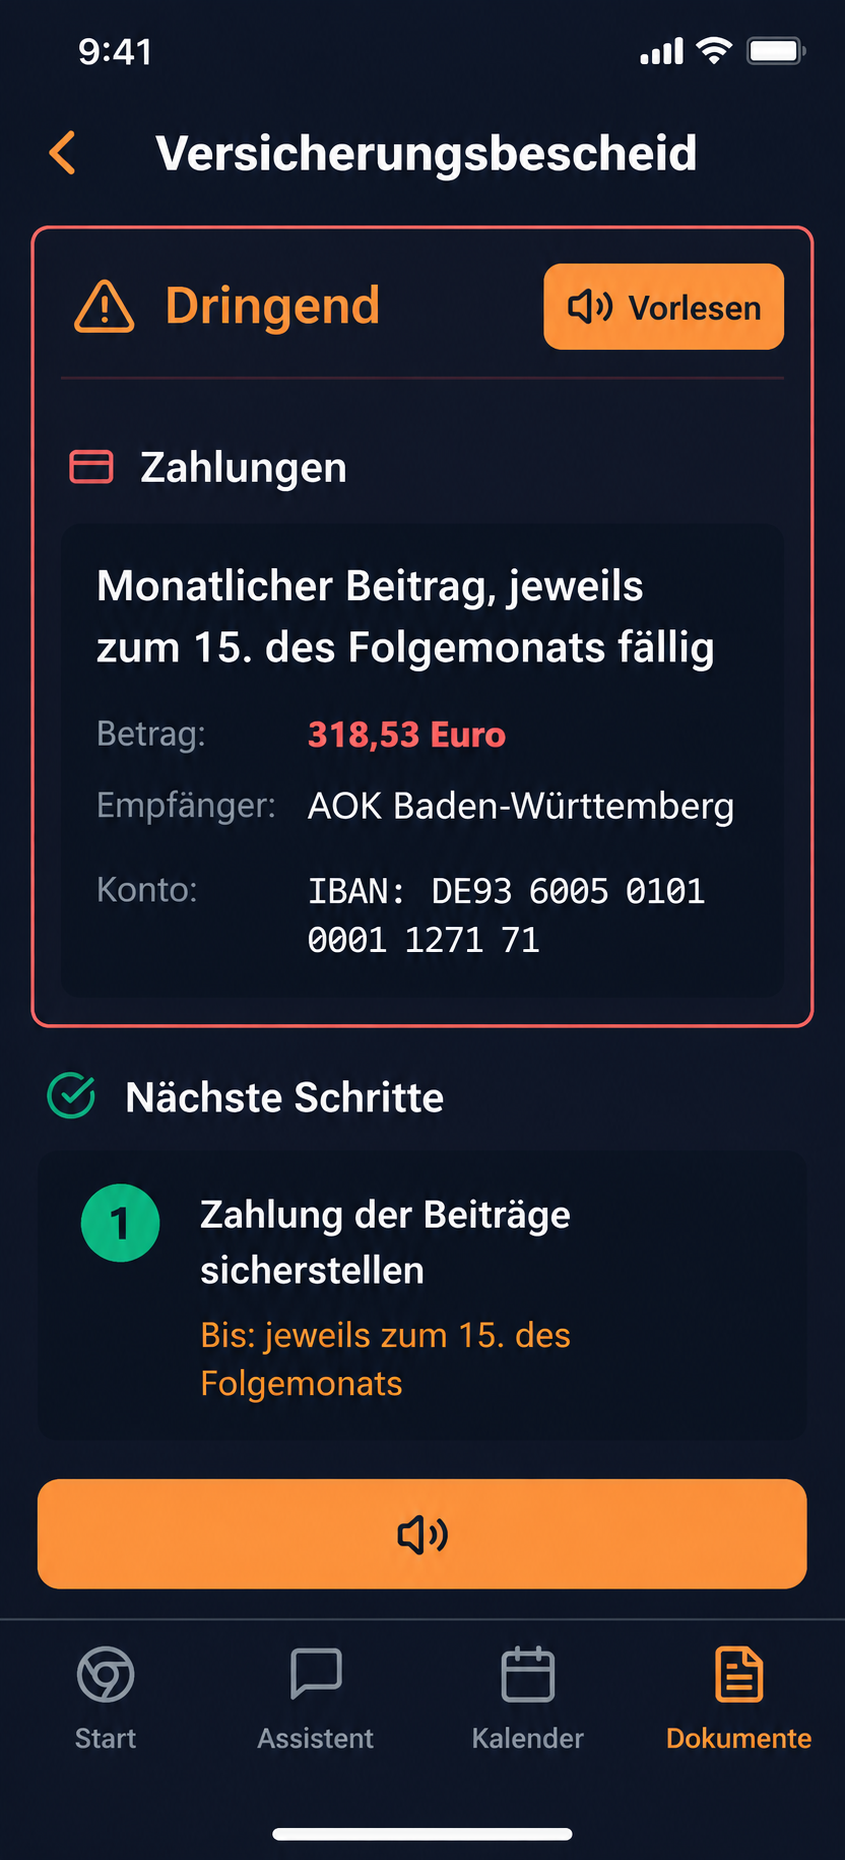
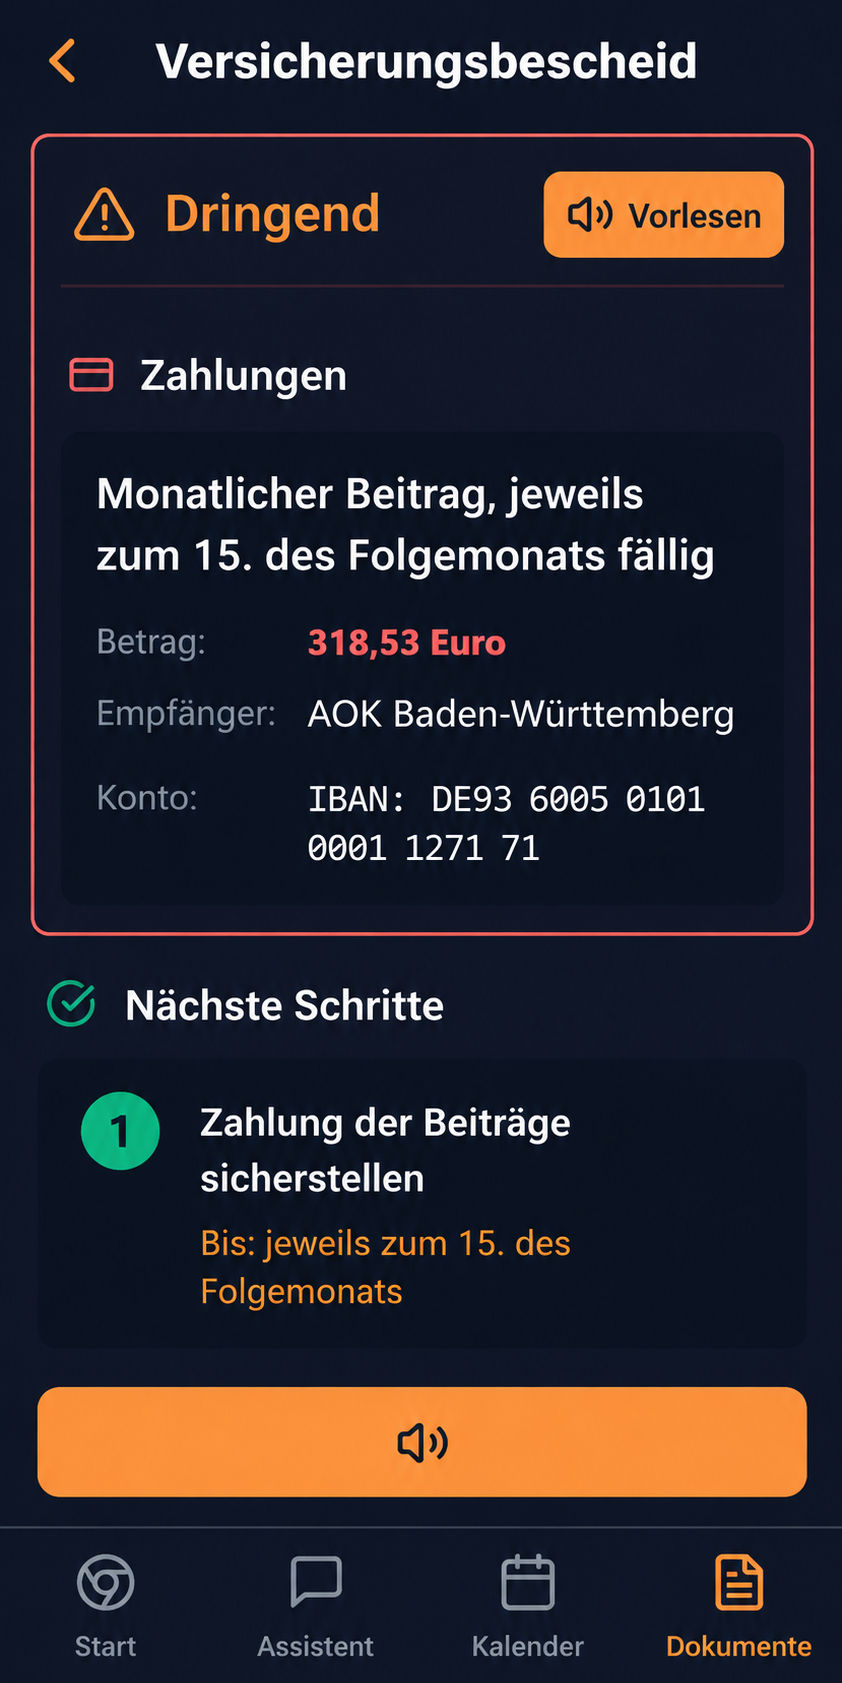
Ablauf Schritt 2: zugeschnittene Fassung des Analyse-Screenshots

Changed region(s): [[0.0309, 0.0, 0.9881, 1.0], [0.0926, 0.0, 0.1853, 0.0309], [0.6176, 0.7106, 0.6793, 0.7415]]

diff --git a/index.html b/index.html
@@ -303,7 +303,7 @@
                   </picture>
                   <picture class="flow__shot">
                     <source srcset="assets/screens/flow-analyse-640.webp" type="image/webp" />
-                    <img src="assets/screens/flow-analyse-640.jpg" alt="Schritt 2 in der App: Der Versicherungsbescheid ist erklärt, mit Hinweis „Dringend“, Zahlungsbetrag, Empfänger, nächsten Schritten und einem Vorlesen-Button" width="640" height="1409" loading="lazy" decoding="async" />
+                    <img src="assets/screens/flow-analyse-640.jpg" alt="Schritt 2 in der App: Der Versicherungsbescheid ist erklärt, mit Hinweis „Dringend“, Zahlungsbetrag, Empfänger, nächsten Schritten und einem Vorlesen-Button" width="640" height="1279" loading="lazy" decoding="async" />
                   </picture>
                   <picture class="flow__shot">
                     <source srcset="assets/screens/flow-assistent-640.webp" type="image/webp" />
@@ -342,7 +342,7 @@
                     <div class="phone__screen">
                       <picture>
                         <source srcset="assets/screens/flow-analyse-640.webp" type="image/webp" />
-                        <img src="assets/screens/flow-analyse-640.jpg" alt="Der Versicherungsbescheid ist in der App erklärt, mit Hinweis „Dringend“, Zahlungsbetrag, Empfänger, nächsten Schritten und einem Vorlesen-Button" width="640" height="1409" loading="lazy" decoding="async" />
+                        <img src="assets/screens/flow-analyse-640.jpg" alt="Der Versicherungsbescheid ist in der App erklärt, mit Hinweis „Dringend“, Zahlungsbetrag, Empfänger, nächsten Schritten und einem Vorlesen-Button" width="640" height="1279" loading="lazy" decoding="async" />
                       </picture>
                     </div>
                   </div>

diff --git a/index-en.html b/index-en.html
@@ -303,7 +303,7 @@
                   </picture>
                   <picture class="flow__shot">
                     <source srcset="assets/screens/flow-analyse-640.webp" type="image/webp" />
-                    <img src="assets/screens/flow-analyse-640.jpg" alt="Step 2 in the app: the insurance letter explained, with an urgent notice, payment amount, recipient, next steps and a read-aloud button (German app interface)" width="640" height="1409" loading="lazy" decoding="async" />
+                    <img src="assets/screens/flow-analyse-640.jpg" alt="Step 2 in the app: the insurance letter explained, with an urgent notice, payment amount, recipient, next steps and a read-aloud button (German app interface)" width="640" height="1279" loading="lazy" decoding="async" />
                   </picture>
                   <picture class="flow__shot">
                     <source srcset="assets/screens/flow-assistent-640.webp" type="image/webp" />
@@ -342,7 +342,7 @@
                     <div class="phone__screen">
                       <picture>
                         <source srcset="assets/screens/flow-analyse-640.webp" type="image/webp" />
-                        <img src="assets/screens/flow-analyse-640.jpg" alt="The insurance letter explained in the app, with an urgent notice, payment amount, recipient, next steps and a read-aloud button (German app interface)" width="640" height="1409" loading="lazy" decoding="async" />
+                        <img src="assets/screens/flow-analyse-640.jpg" alt="The insurance letter explained in the app, with an urgent notice, payment amount, recipient, next steps and a read-aloud button (German app interface)" width="640" height="1279" loading="lazy" decoding="async" />
                       </picture>
                     </div>
                   </div>
